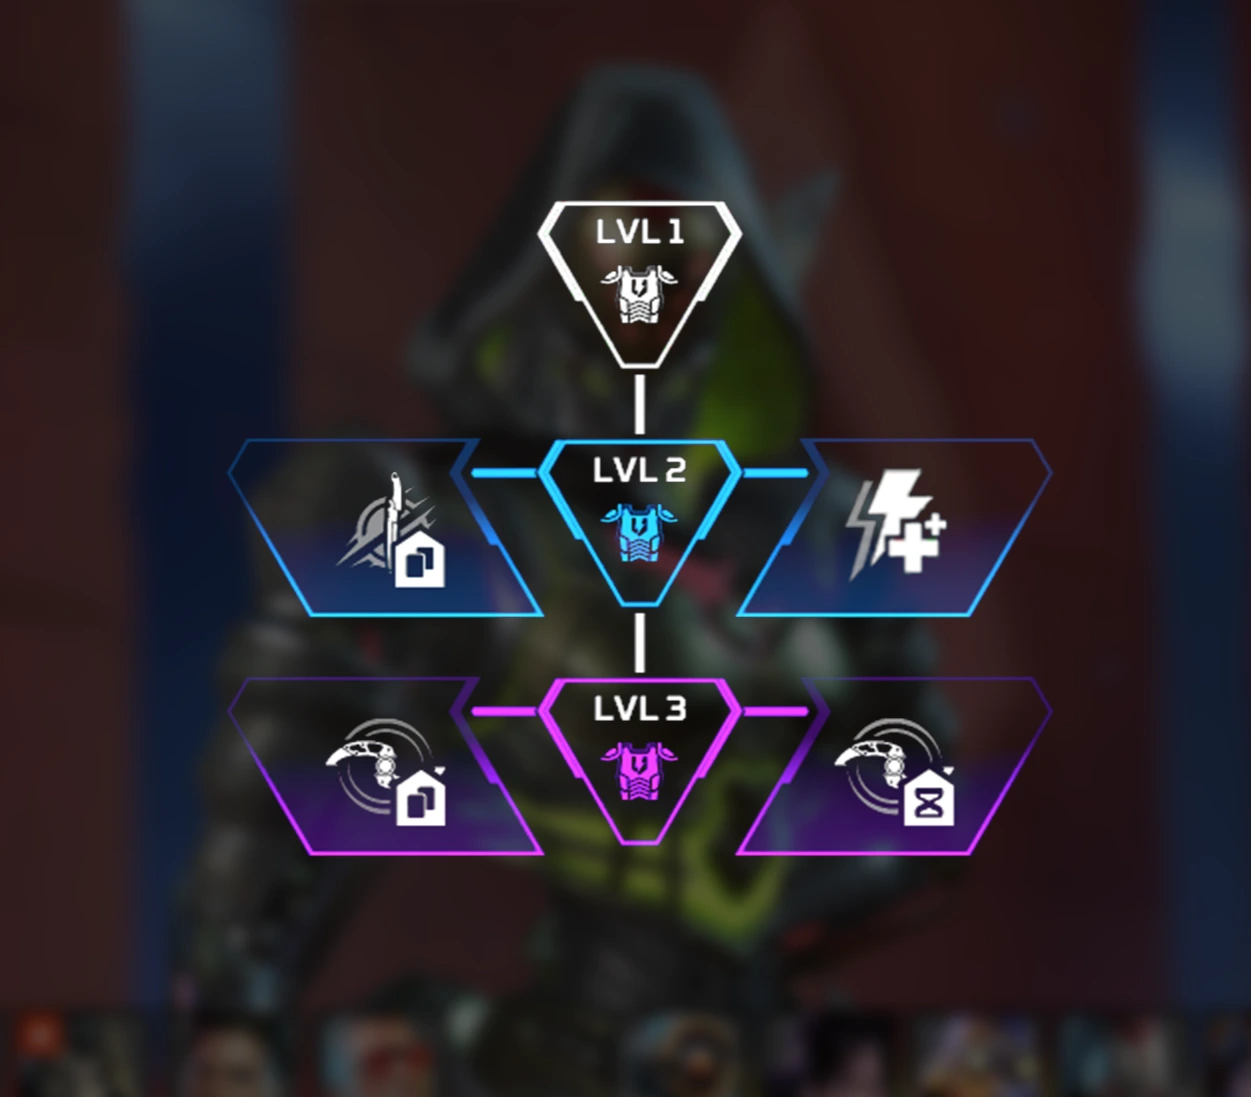
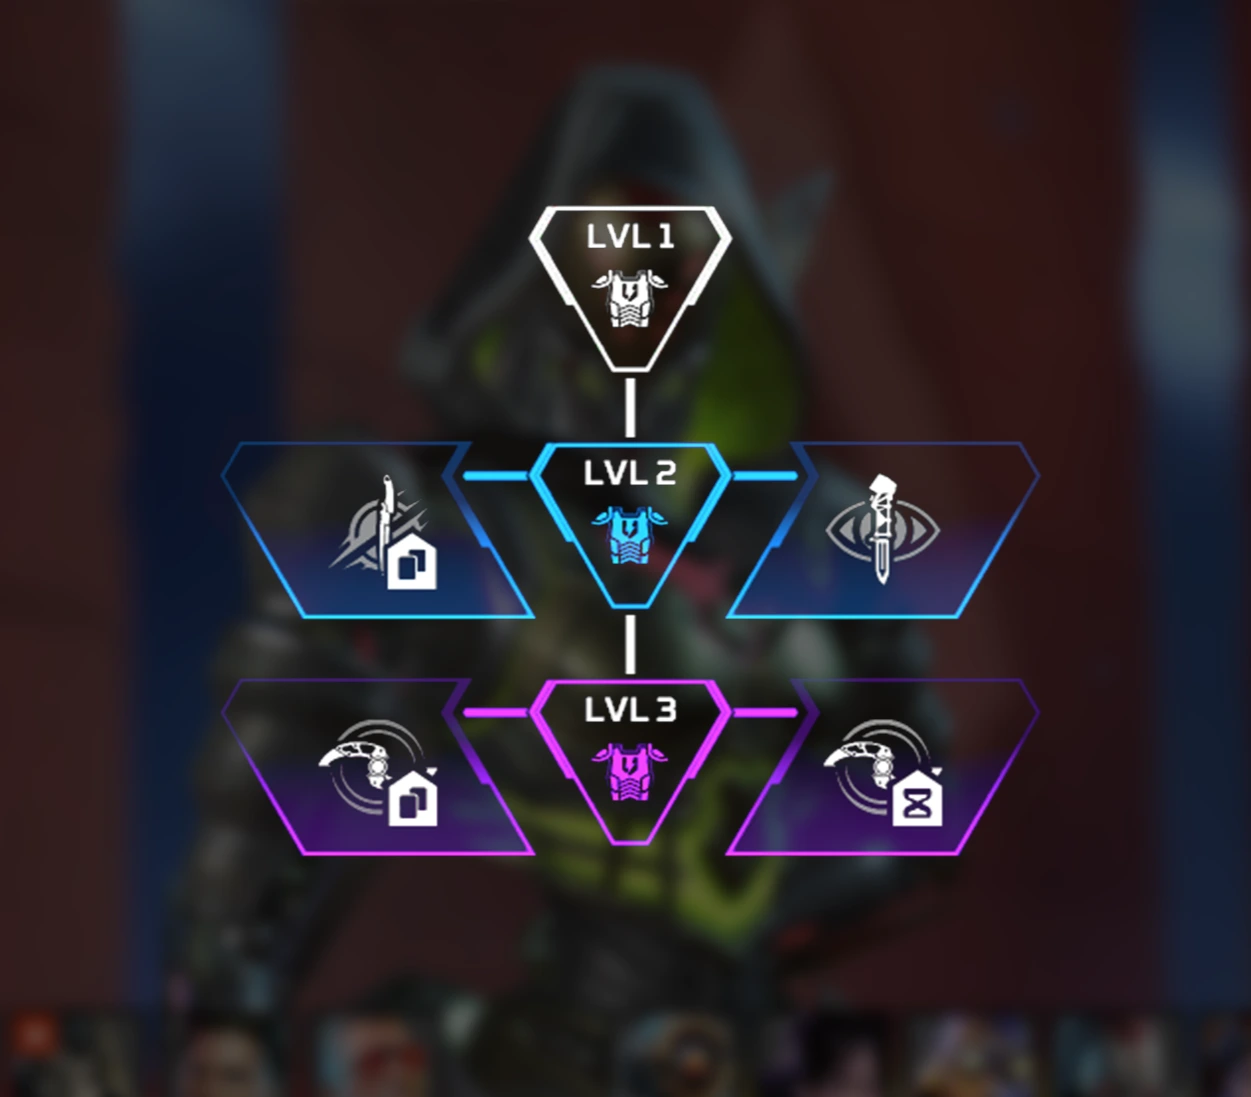
Updated to Apex Legends s26 Showdown changes

Changed region(s): [[0.1559, 0.155, 0.8417, 0.7748]]

diff --git a/src/components/events/UpgradeLegends/Assault/Bangalore.jsx b/src/components/events/UpgradeLegends/Assault/Bangalore.jsx
@@ -39,32 +39,32 @@ function Upgrade() {
         <div className={styles.SensitiveZone}>
             <div className={styles.Zone1}>
                 <SensitiveZone
-                    title="TACTICAL COOLDOWN"
-                    description="Reduces Tactical cooldown by 5s."
+                    title="ELECTRIC SMOKE"
+                    description="Electrifies Tac dealing 100 damage to enemy Ults and destroys Tacs."
                     top={-10}
                     left={-460}
                 />
             </div>
             <div className={styles.Zone2}>
                 <SensitiveZone
-                    title="ULTIMATE COOLDOWN+"
-                    description="Reduce Ultimate cooldown by 60 seconds."
+                    title="COVER ME"
+                    description="Allies regenerate HP while inside Smoke. Auto-Ping enemies who trigger Passive."
                     top={-10}
                     left={100}
                 />
             </div>
             <div className={styles.Zone3}>
                 <SensitiveZone
-                    title2="COVER ME"
-                    description="Point you in the right direction enemies who trigger Double Time."
+                    title2="ECM PAYLOAD"
+                    description="Electrifies Ult dealing 10 more damage, destroys enemy deployables."
                     top={100}
                     left={-460}
                 />
             </div>
             <div className={styles.Zone4}>
                 <SensitiveZone
-                    title2="REFUGE"
-                    description="Regenerate 3.5 HP/s while inside Smoke."
+                    title2="MEDAL OF HONOR"
+                    description="Faster revives and passive triggers running towards knocked allies."
                     top={100}
                     left={100}
                 />

diff --git a/src/components/events/UpgradeLegends/Controller/Caustic.jsx b/src/components/events/UpgradeLegends/Controller/Caustic.jsx
@@ -39,16 +39,16 @@ function Upgrade() {
         <div className={styles.SensitiveZone}>
             <div className={styles.Zone1}>
                 <SensitiveZone
-                    title="PARABOLIC FORCE"
-                    description="Increase Tactical throw range by 75%."
+                    title="EXTRA TRAPS"
+                    description="Gain an additional Tac and +2 traps in world."
                     top={-10}
                     left={-460}
                 />
             </div>
             <div className={styles.Zone2}>
                 <SensitiveZone
-                    title="RESIDUAL TOXINS"
-                    description="Nox Vision persists for longer."
+                    title="BREATHE IT IN"
+                    description="Regen HP inside Nox Gas."
                     top={-10}
                     left={100}
                 />
@@ -56,15 +56,15 @@ function Upgrade() {
             <div className={styles.Zone3}>
                 <SensitiveZone
                     title2="PARTICLE DIFFUSER"
-                    description="+50% Ult gas area of effect."
+                    description="Increases Ult radius by 50%."
                     top={100}
                     left={-460}
                 />
             </div>
             <div className={styles.Zone4}>
                 <SensitiveZone
-                    title2="BREATHE IT IN"
-                    description="Regen HP inside Nox Gas."
+                    title2="GAS FIGHTER"
+                    description="Tac recharges 300% faster while in gas."
                     top={100}
                     left={100}
                 />

diff --git a/src/routes/index.jsx b/src/routes/index.jsx
@@ -1,14 +1,9 @@
 import {
     createBrowserRouter,
-    RouterProvider, BrowserRouter as Router, Route, Routes
+    RouterProvider, BrowserRouter as Router
 } from "react-router-dom";
 
 import Navbar from './../components/Navbar';
-import Ash from './../components/events/UpgradeLegends/Assault/Ash';
-import Ballistic from './../components/events/UpgradeLegends/Assault/Ballistic';
-import Bangalore from './../components/events/UpgradeLegends/Assault/Bangalore';
-import Fuse from './../components/events/UpgradeLegends/Assault/Fuse';
-import Maggie from './../components/events/UpgradeLegends/Assault/Maggie';
 
 import Home from "../views/Home";
 import Upgrades from "../views/Upgrades";
@@ -32,14 +27,6 @@ const router = createBrowserRouter([
 
     <Router>
         <Navbar />
-        <Routes>
-            <Route path="/legends-upgrade" element={<Ash />} />
-            <Route path="/legends-upgrade" element={<Ballistic />} />
-            <Route path="/legends-upgrade" element={<Bangalore />} />
-            <Route path="/legends-upgrade" element={<Fuse />} />
-            <Route path="/legends-upgrade" element={<Maggie />} />
-            {/* TODO */}
-        </Routes>
     </Router>
 
 ]);

diff --git a/src/components/events/UpgradeLegends/Slider/Skirm.slide.jsx b/src/components/events/UpgradeLegends/Slider/Skirm.slide.jsx
@@ -15,7 +15,7 @@ import Alter from '../Skirmisher/Alter';
 import Horizon from '../Skirmisher/Horizon';
 import Octane from '../Skirmisher/Octane';
 import Pathfinder from '../Skirmisher/Pathfinder';
-import Revenant from '../Skirmisher/Revenant';
+import Ash from '../Skirmisher/Ash';
 import Wraith from '../Skirmisher/Wraith';
 import SkirmClass from '../Slider/Classes/classSkirm';
 
@@ -23,7 +23,6 @@ export default () => {
   return (
     <div className={styles.container}>
       <Swiper
-        // install Swiper modules
         className={styles.swiper}
         modules={[Navigation, Pagination, EffectFlip, Keyboard]}
         spaceBetween={1}
@@ -38,7 +37,7 @@ export default () => {
         <SwiperSlide><Horizon /></SwiperSlide>
         <SwiperSlide><Octane /></SwiperSlide>
         <SwiperSlide><Pathfinder /></SwiperSlide>
-        <SwiperSlide><Revenant /></SwiperSlide>
+        <SwiperSlide><Ash /></SwiperSlide>
         <SwiperSlide><Wraith /></SwiperSlide>
       </Swiper>
 

diff --git a/src/components/events/UpgradeLegends/Slider/Assault.slide.jsx b/src/components/events/UpgradeLegends/Slider/Assault.slide.jsx
@@ -11,7 +11,7 @@ import 'swiper/css/keyboard';
 
 import styles from '../Slider/sliderStyles/slide.module.css';
 
-import Ash from '../Assault/Ash';
+import Revenant from '../Assault/Revenant';
 import Ballistic from '../Assault/Ballistic';
 import Bangalore from '../Assault/Bangalore';
 import Fuse from '../Assault/Fuse';
@@ -35,9 +35,9 @@ export default () => {
         grabCursor={true}
         keyboard={true}
       >
-        <SwiperSlide><Ash /></SwiperSlide>
         <SwiperSlide><Ballistic /></SwiperSlide>
         <SwiperSlide><Bangalore /></SwiperSlide>
+        <SwiperSlide><Revenant /></SwiperSlide>
         <SwiperSlide><Fuse /></SwiperSlide>
         <SwiperSlide><Maggie /></SwiperSlide>
       </Swiper>

diff --git a/src/components/events/UpgradeLegends/Controller/Wattson.jsx b/src/components/events/UpgradeLegends/Controller/Wattson.jsx
@@ -48,7 +48,7 @@ function Upgrade() {
             <div className={styles.Zone2}>
                 <SensitiveZone
                     title="ULTIMATE CONDUCTOR"
-                    description="Damage enemies to reduce Ult cooldown and knocks give 30% ult charge bust."
+                    description="Damage enemies to reduce Ult cooldown and knocks give 50% ult charge bust."
                     top={-10}
                     left={100}
                 />

diff --git a/src/components/events/UpgradeLegends/Skirmisher/Ash.jsx b/src/components/events/UpgradeLegends/Skirmisher/Ash.jsx
@@ -47,8 +47,8 @@ function Upgrade() {
             </div>
             <div className={styles.Zone2}>
                 <SensitiveZone
-                    title="CHARGED KNOCK"
-                    description="Gain HP regen on a knock."
+                    title="MARKED FOR DEATH"
+                    description="Reveals enemy deathboxes on your map."
                     top={-10}
                     left={100}
                 />
